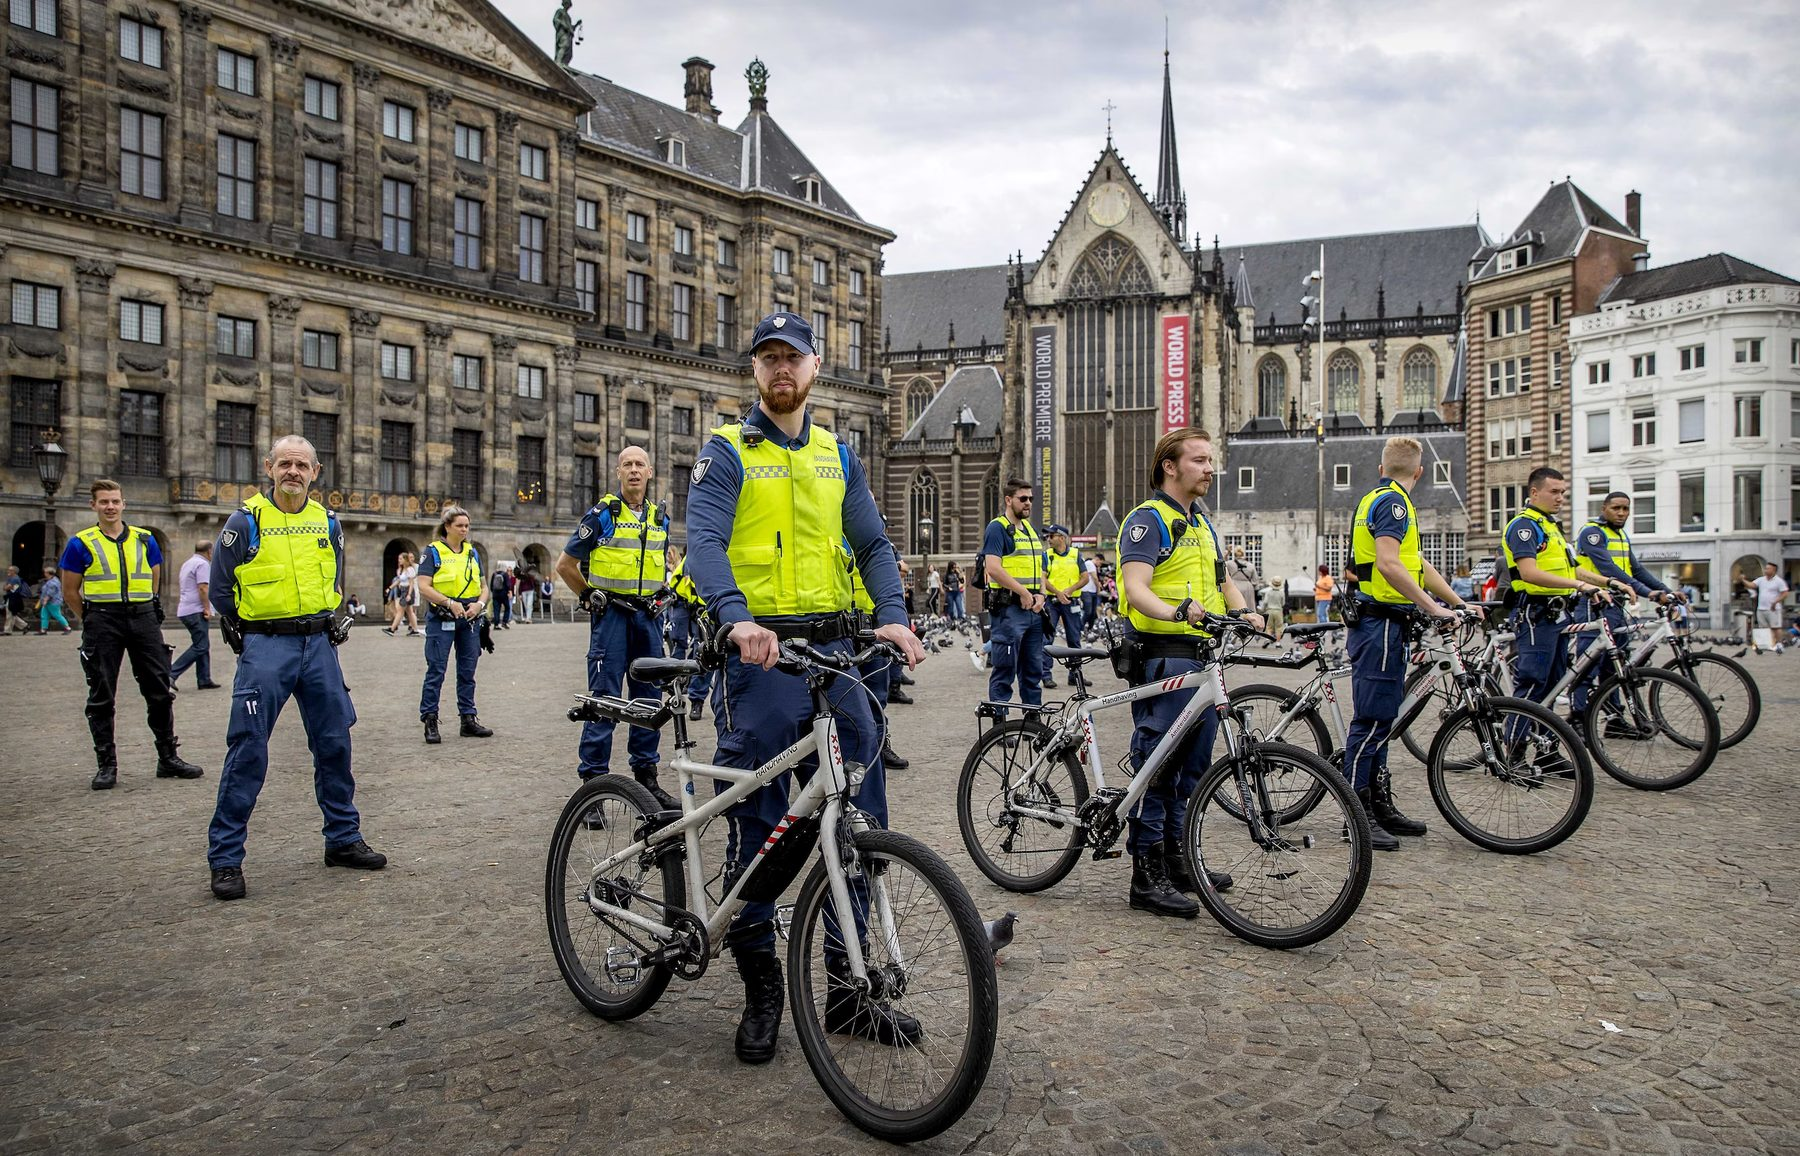
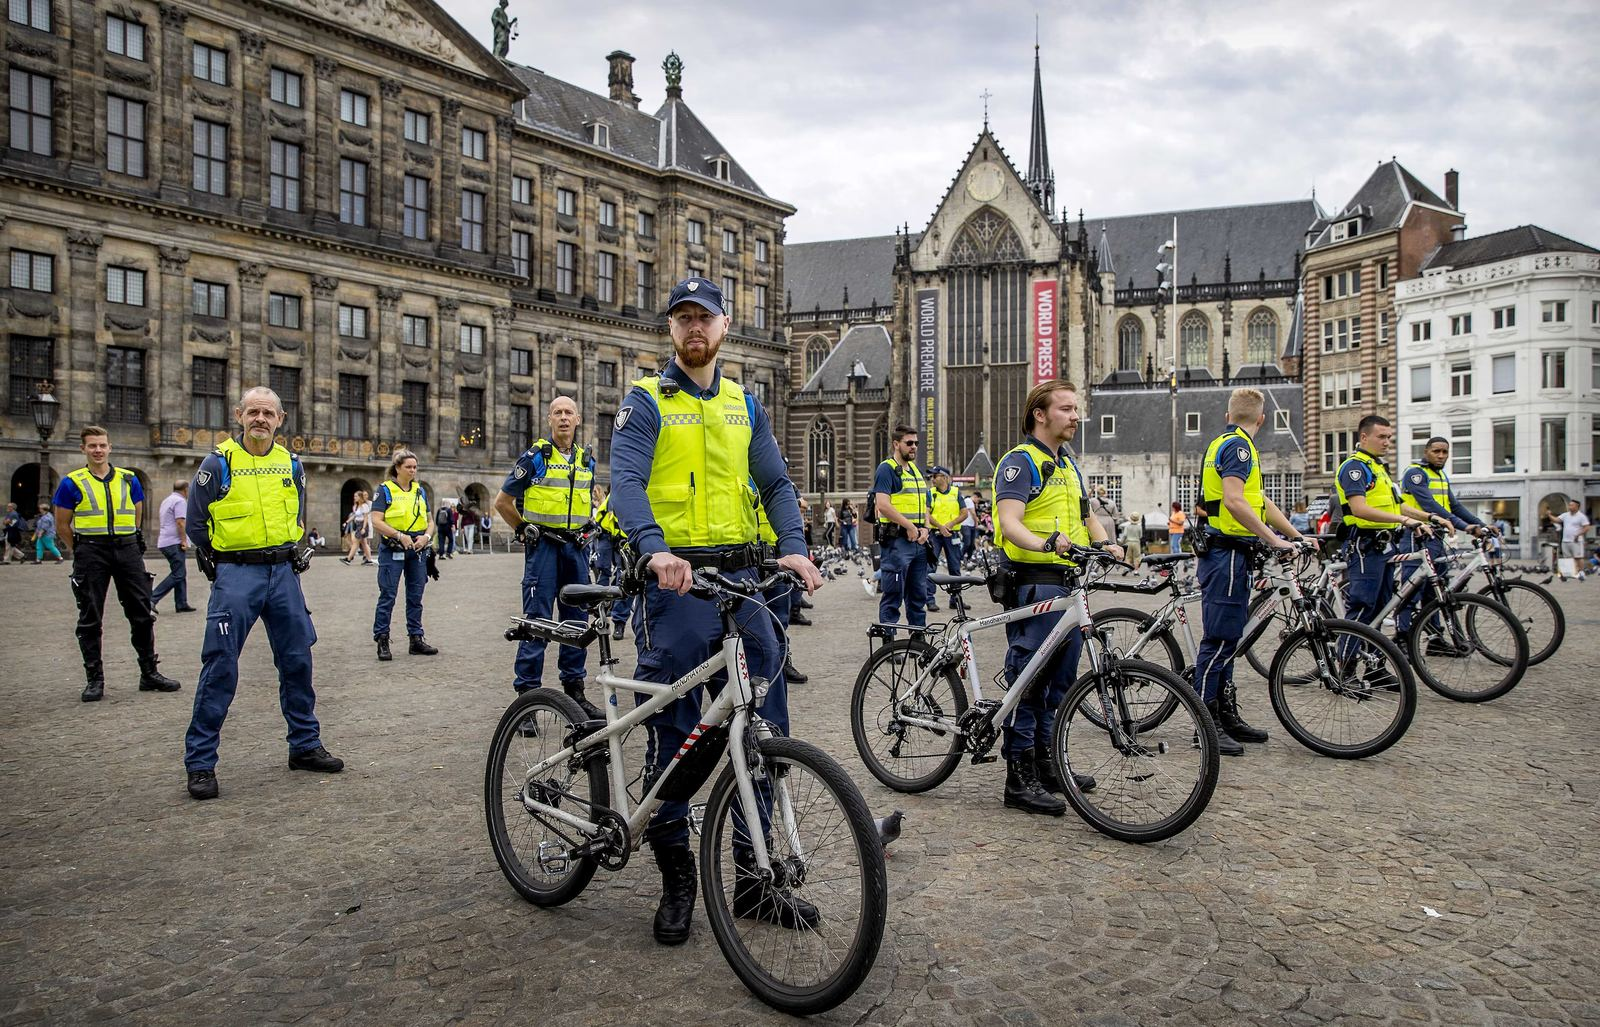
Alleen de nieuwe handhavingsfoto's als achtergrond.

diff --git a/app.js b/app.js
@@ -1,12 +1,14 @@
 const FOTOS = [
-  ["achtergronden/dam.jpg", "Dam"],
-  ["achtergronden/fiets.jpg", "Fiets"],
-  ["achtergronden/trio.jpg", "Straat"],
-  ["achtergronden/rug.jpg", "Rug"],
+  ["achtergronden/dam.jpg", "Plein"],
+  ["achtergronden/pad.jpg", "Fietspad"],
   ["achtergronden/vest.jpg", "Vest"],
-  ["achtergronden/steeg.jpg", "Steeg"],
-  ["achtergronden/metro.jpg", "Station"],
+  ["achtergronden/tweetal.jpg", "Tweetal"],
+  ["achtergronden/straat.jpg", "Straat"],
+  ["achtergronden/bos.jpg", "Bos"],
+  ["achtergronden/radio.jpg", "Portofoon"],
   ["achtergronden/portret.jpg", "Portret"],
+  ["achtergronden/groep.jpg", "Groep"],
+  ["achtergronden/douane.jpg", "Bureau"],
 ];
 
 let foto = (Number(localStorage.getItem("boa-mail-foto") || -1) + 1) % FOTOS.length;
